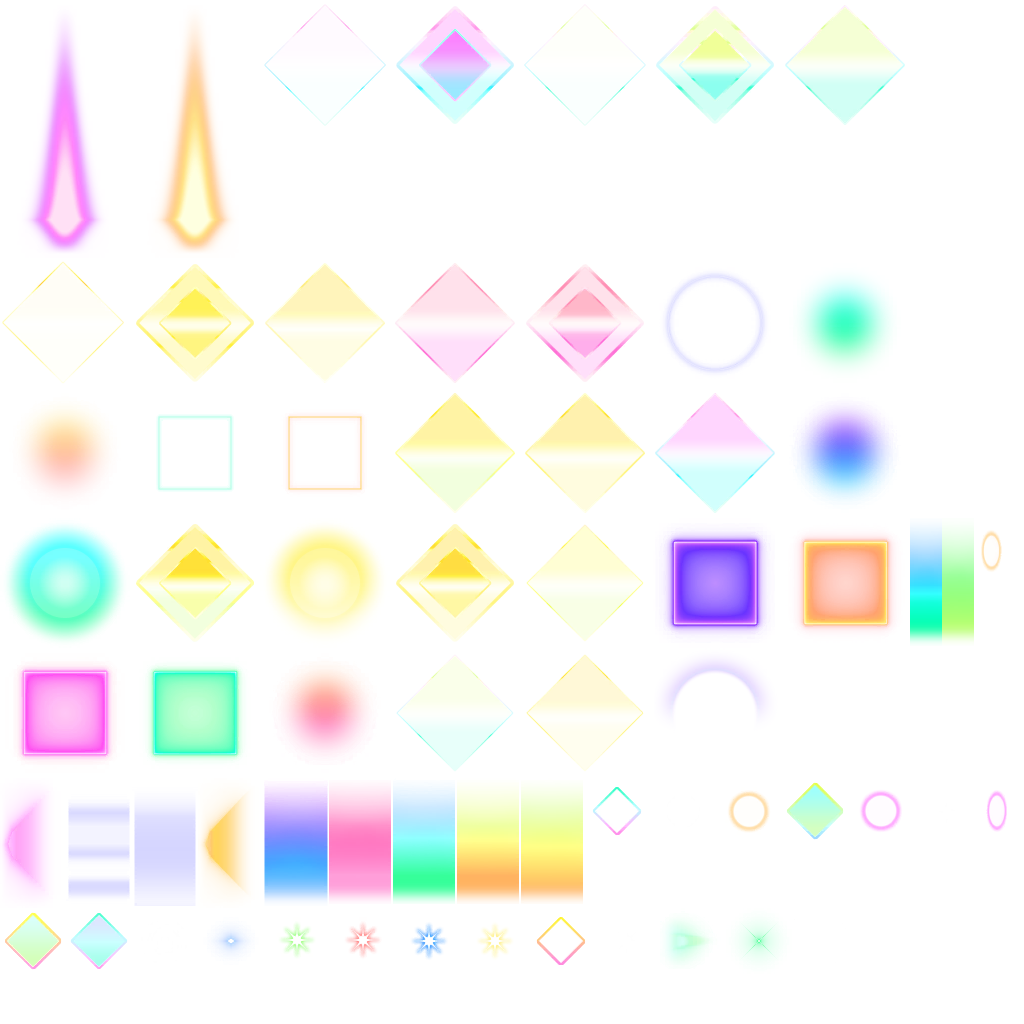
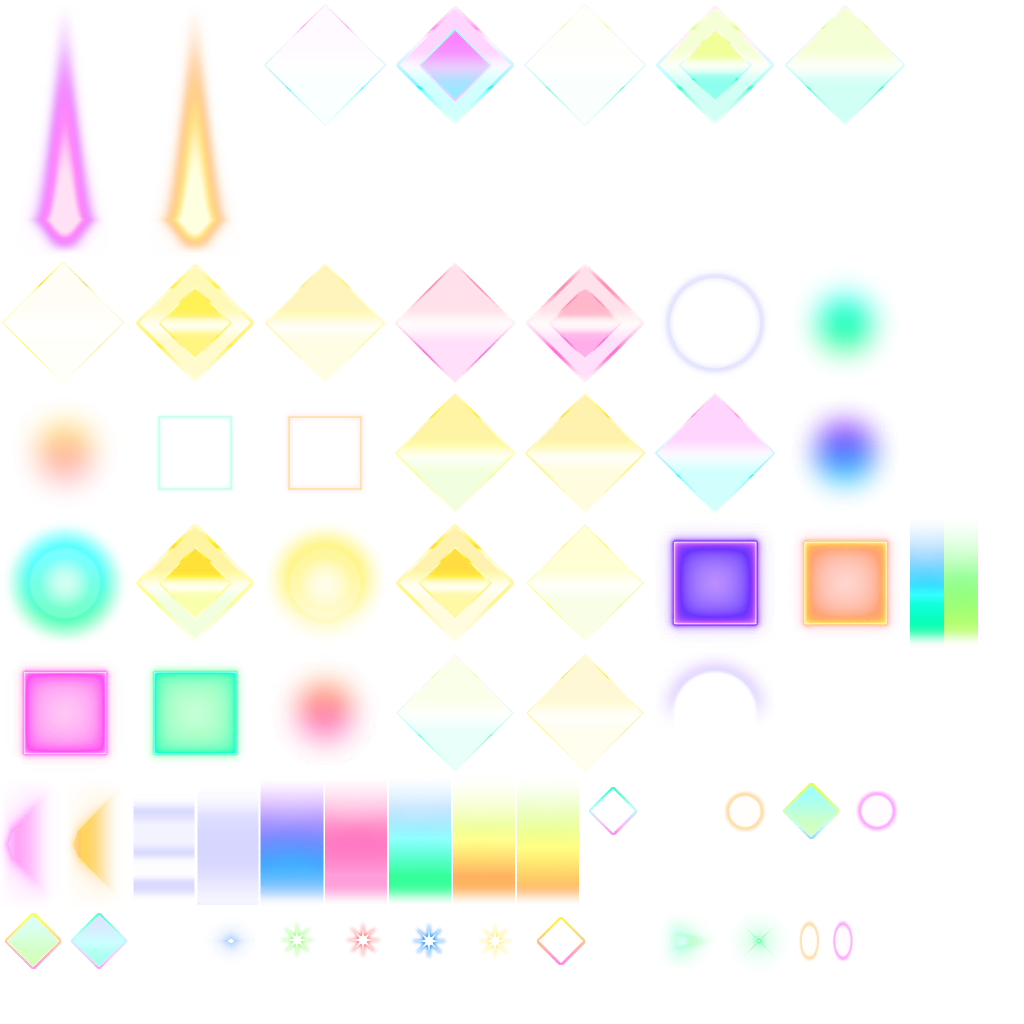
Small effects fixs

diff --git a/MikuMikuWorld/PreviewEngine.cpp b/MikuMikuWorld/PreviewEngine.cpp
@@ -19,7 +19,7 @@ namespace MikuMikuWorld
 		
 		{ ParticleEffectType::NoteFlickCircular, 0.45f },
 		{ ParticleEffectType::NoteFlickLinear, 0.39f },
-		{ ParticleEffectType::NoteFlickDirectional, 0.283f },
+		{ ParticleEffectType::NoteFlickDirectional, 1.f },
 		
 		{ ParticleEffectType::NoteFrictionCircular, 0.42f },
 		{ ParticleEffectType::NoteFrictionLinear, 0.56f },
@@ -34,7 +34,7 @@ namespace MikuMikuWorld
 		
 		{ ParticleEffectType::NoteCriticalFlickCircular, 0.44f },
 		{ ParticleEffectType::NoteCriticalFlickLinear, 0.335f },
-		{ ParticleEffectType::NoteCriticalDirectional, 0.283f },
+		{ ParticleEffectType::NoteCriticalDirectional, 1.f },
 
 		{ ParticleEffectType::NoteFrictionCriticalCircular, 0.42f },
 		{ ParticleEffectType::NoteFrictionCriticalLinear, 0.56f },
@@ -55,18 +55,17 @@ namespace MikuMikuWorld
 		{ ParticleEffectType::SlotNoteFlick, 0.48f },
 		{ ParticleEffectType::SlotNoteCritical, 0.48f },
 
-		{ ParticleEffectType::SlotGlowNoteTap, 0.25f },
-		{ ParticleEffectType::SlotGlowNoteCritical, 0.25f },
-		{ ParticleEffectType::SlotGlowNoteLong, 0.25f },
-		{ ParticleEffectType::SlotGlowNoteFlick, 0.35f },
-		{ ParticleEffectType::SlotGlowNoteCriticalFlick, 0.25f },
-		{ ParticleEffectType::SlotGlowNoteCriticalLong, 0.25f },
+		{ ParticleEffectType::SlotGlowNoteTap, 0.24f },
+		{ ParticleEffectType::SlotGlowNoteCritical, 0.24f },
+		{ ParticleEffectType::SlotGlowNoteLong, 0.24f },
+		{ ParticleEffectType::SlotGlowNoteFlick, 0.34f },
+		{ ParticleEffectType::SlotGlowNoteCriticalFlick, 0.24f },
+		{ ParticleEffectType::SlotGlowNoteCriticalLong, 0.24f },
 
 		{ ParticleEffectType::SlotGlowNoteLongSegment, 0.3f },
 		{ ParticleEffectType::SlotGlowNoteLongCriticalSegment, 0.3f },
 
-		{ ParticleEffectType::NoteCriticalFlickLinearAdd, 0.5f },
-		{ ParticleEffectType::NoteCriticalFlickFlare, 0.62f },
+		{ ParticleEffectType::NoteCriticalFlickLinearAdd, 0.5f }
 	};
 
 	std::map<ParticleEffectType, ParticleEffectType> particleEffectFallback = {

diff --git a/MikuMikuWorld/PreviewData.cpp b/MikuMikuWorld/PreviewData.cpp
@@ -447,10 +447,6 @@ namespace MikuMikuWorld::Engine
 			ParticleEffectType directional = !note.critical ? ParticleEffectType::NoteFlickDirectional : ParticleEffectType::NoteCriticalDirectional;
 			if (ensureValidParticle(directional))
 				addParticleEffect(drawData, directional, NoteEffectType::Gen, DrawingParticleType::Linear, note, score);
-
-      ParticleEffectType flare = ParticleEffectType::NoteCriticalFlickFlare;
-			if (note.critical && ensureValidParticle(flare))
-        addParticleEffect(drawData, ParticleEffectType::NoteCriticalFlickFlare, NoteEffectType::Gen, DrawingParticleType::Linear, note, score);
 		}
 	}
 

diff --git a/MikuMikuWorld/PreviewEngine.h b/MikuMikuWorld/PreviewEngine.h
@@ -113,7 +113,6 @@ namespace MikuMikuWorld
 		SlotGlowNoteLongCriticalSegment,
 
 		NoteCriticalFlickLinearAdd,
-		NoteCriticalFlickFlare,
 
 		Invalid = UINT32_MAX
 	};
